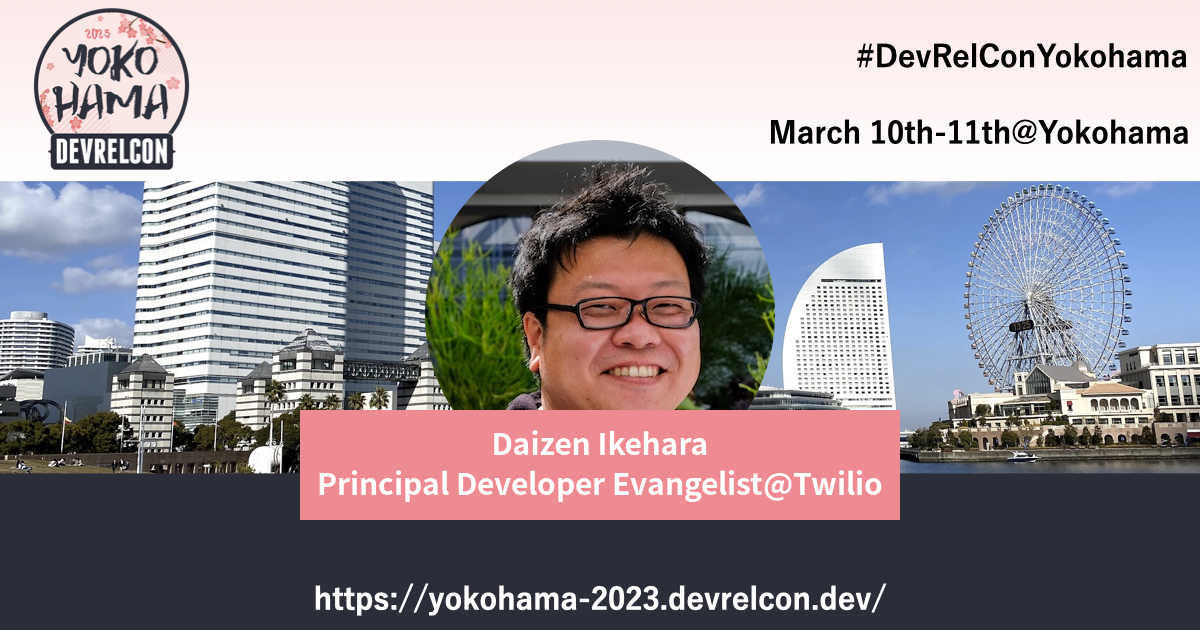
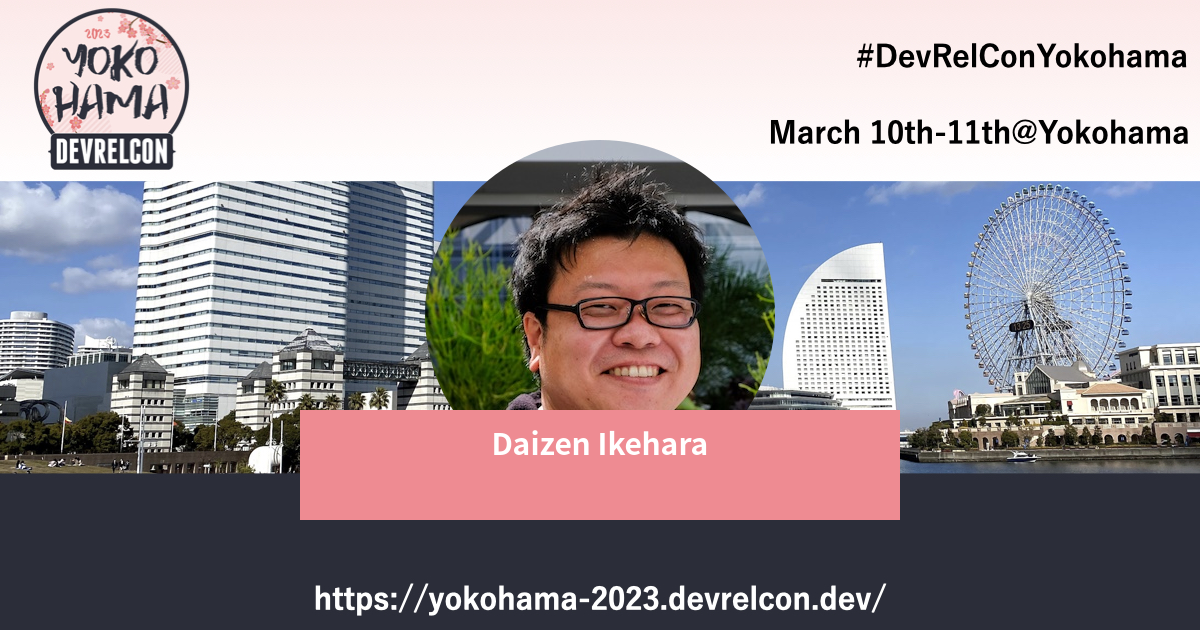
auto update

Changed region(s): [[0.2467, 0.754, 0.74, 0.8143]]

diff --git a/organizers/neri.md b/organizers/neri.md
@@ -1,7 +1,7 @@
 ---
 layout: person
 permalink: /organizers/neri/
-title: 池原 大然@Twilio
+title: 池原 大然@
 ogp: /assets/images/ogp/neri.jpg
 type: organizer
 id: neri
